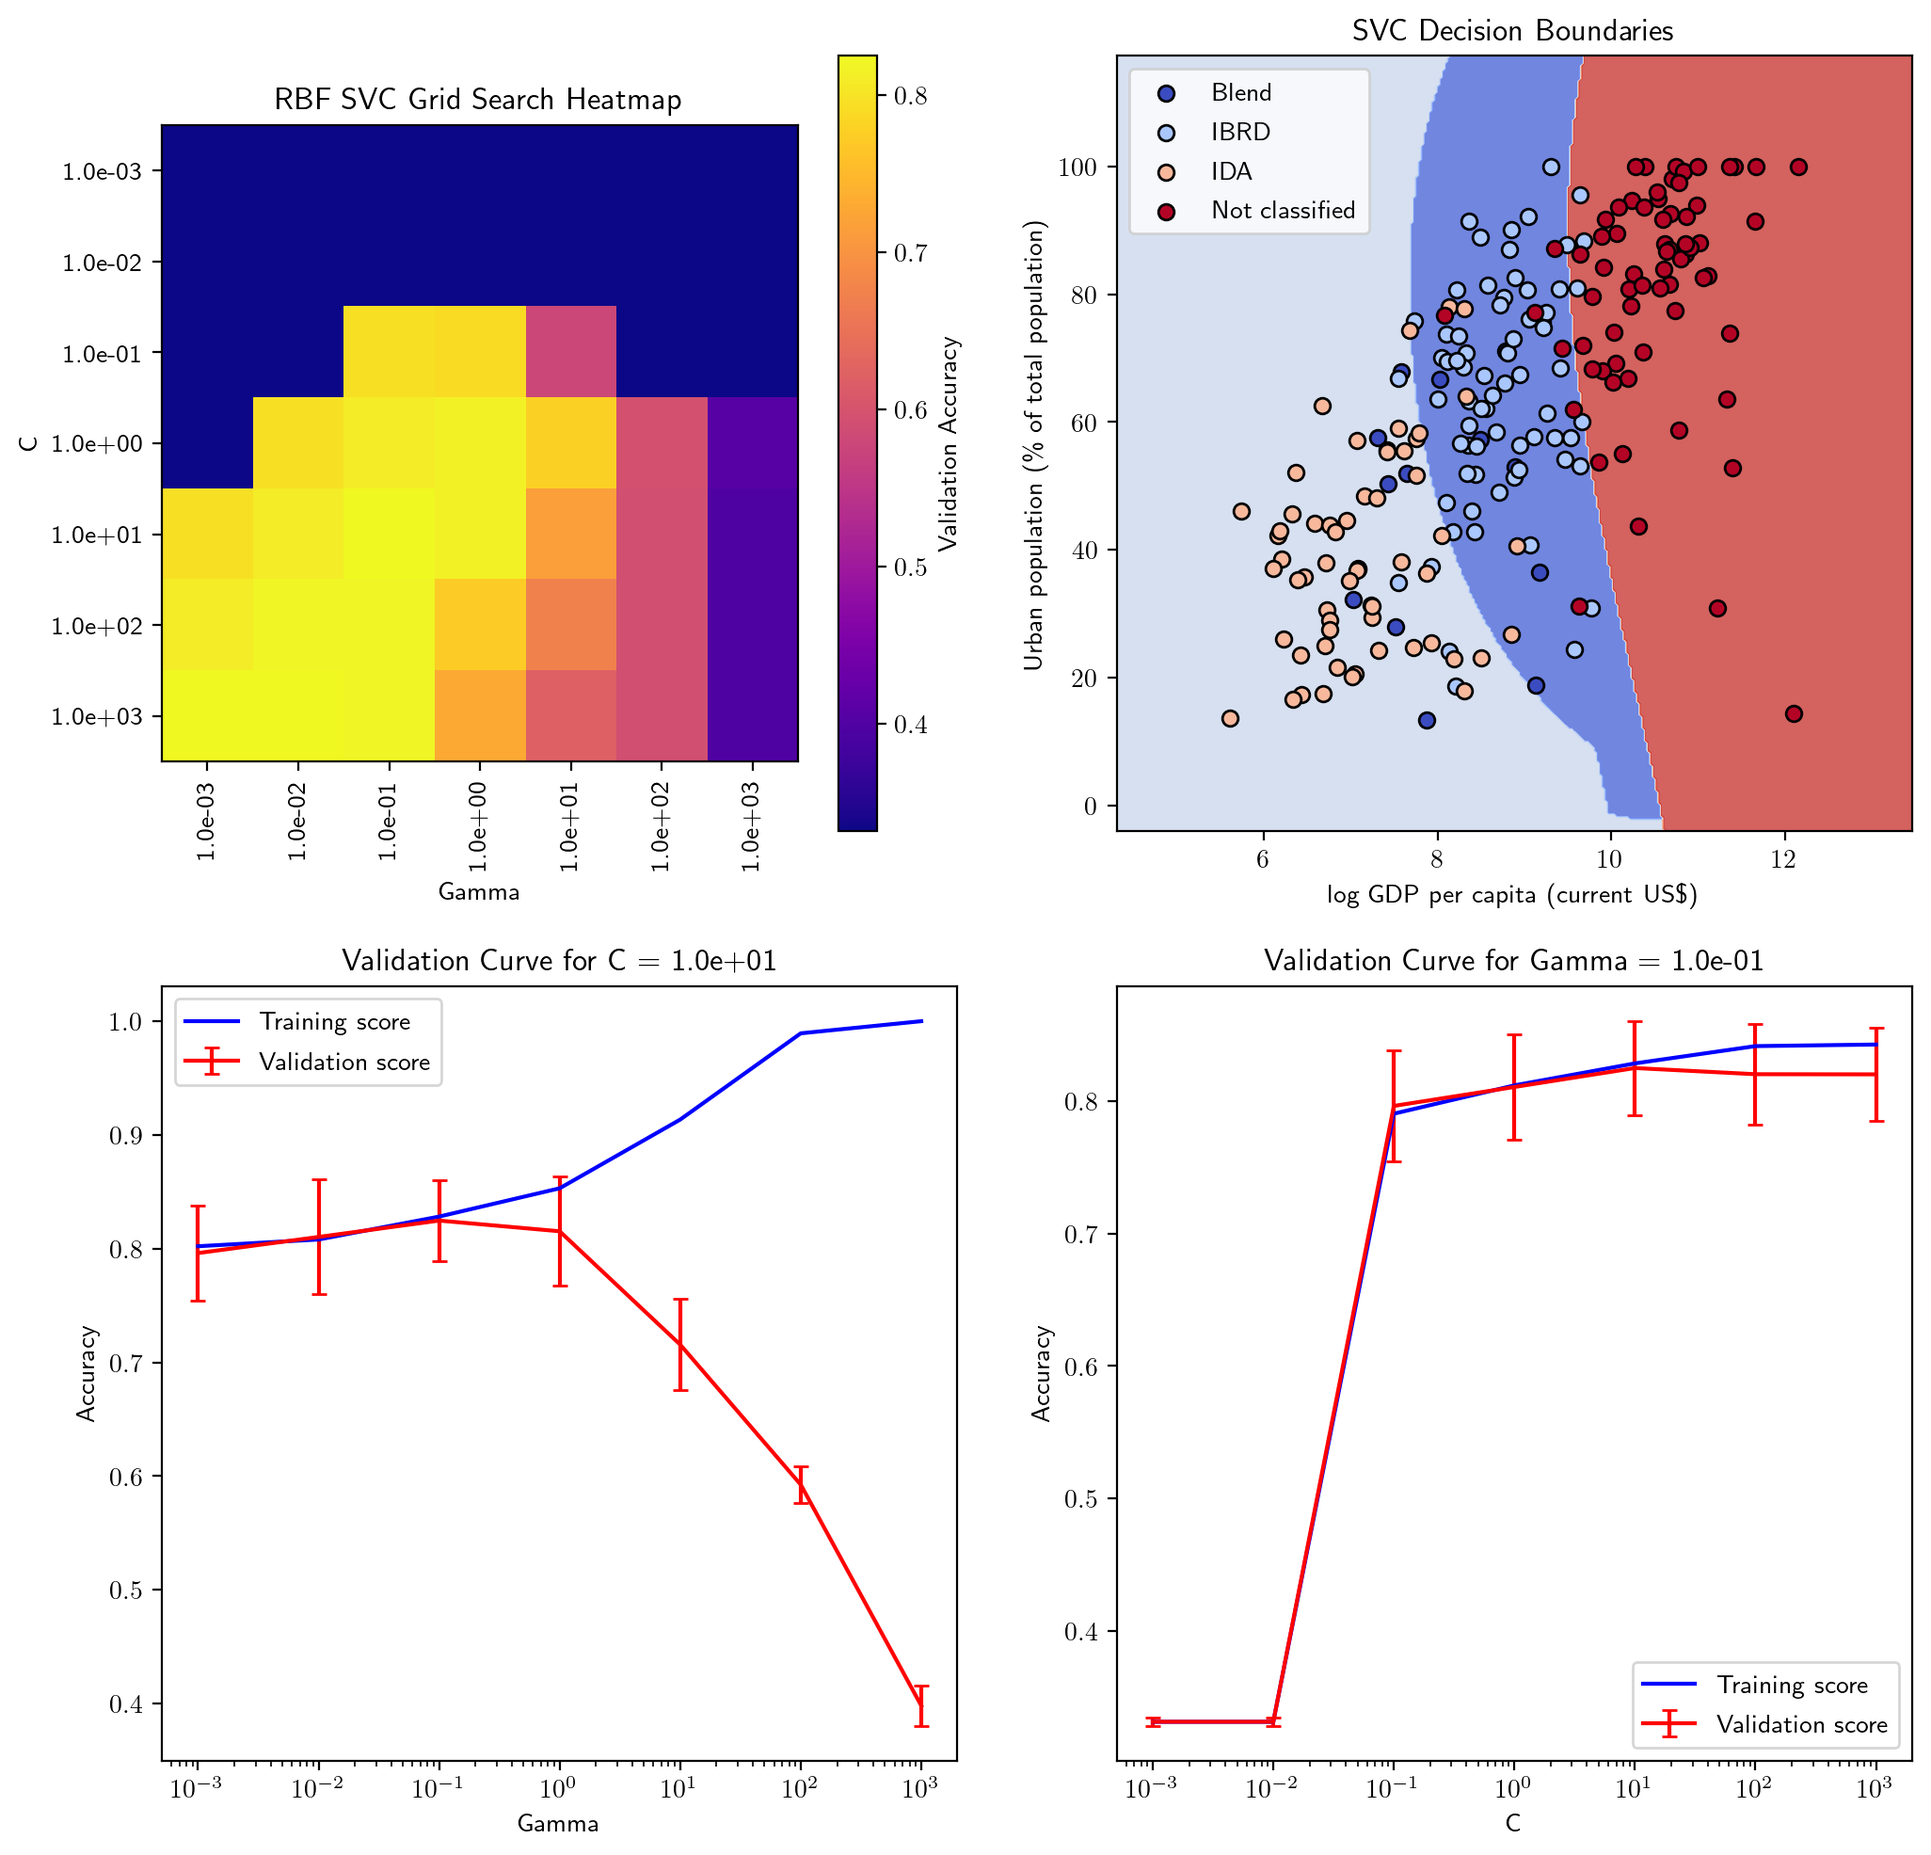
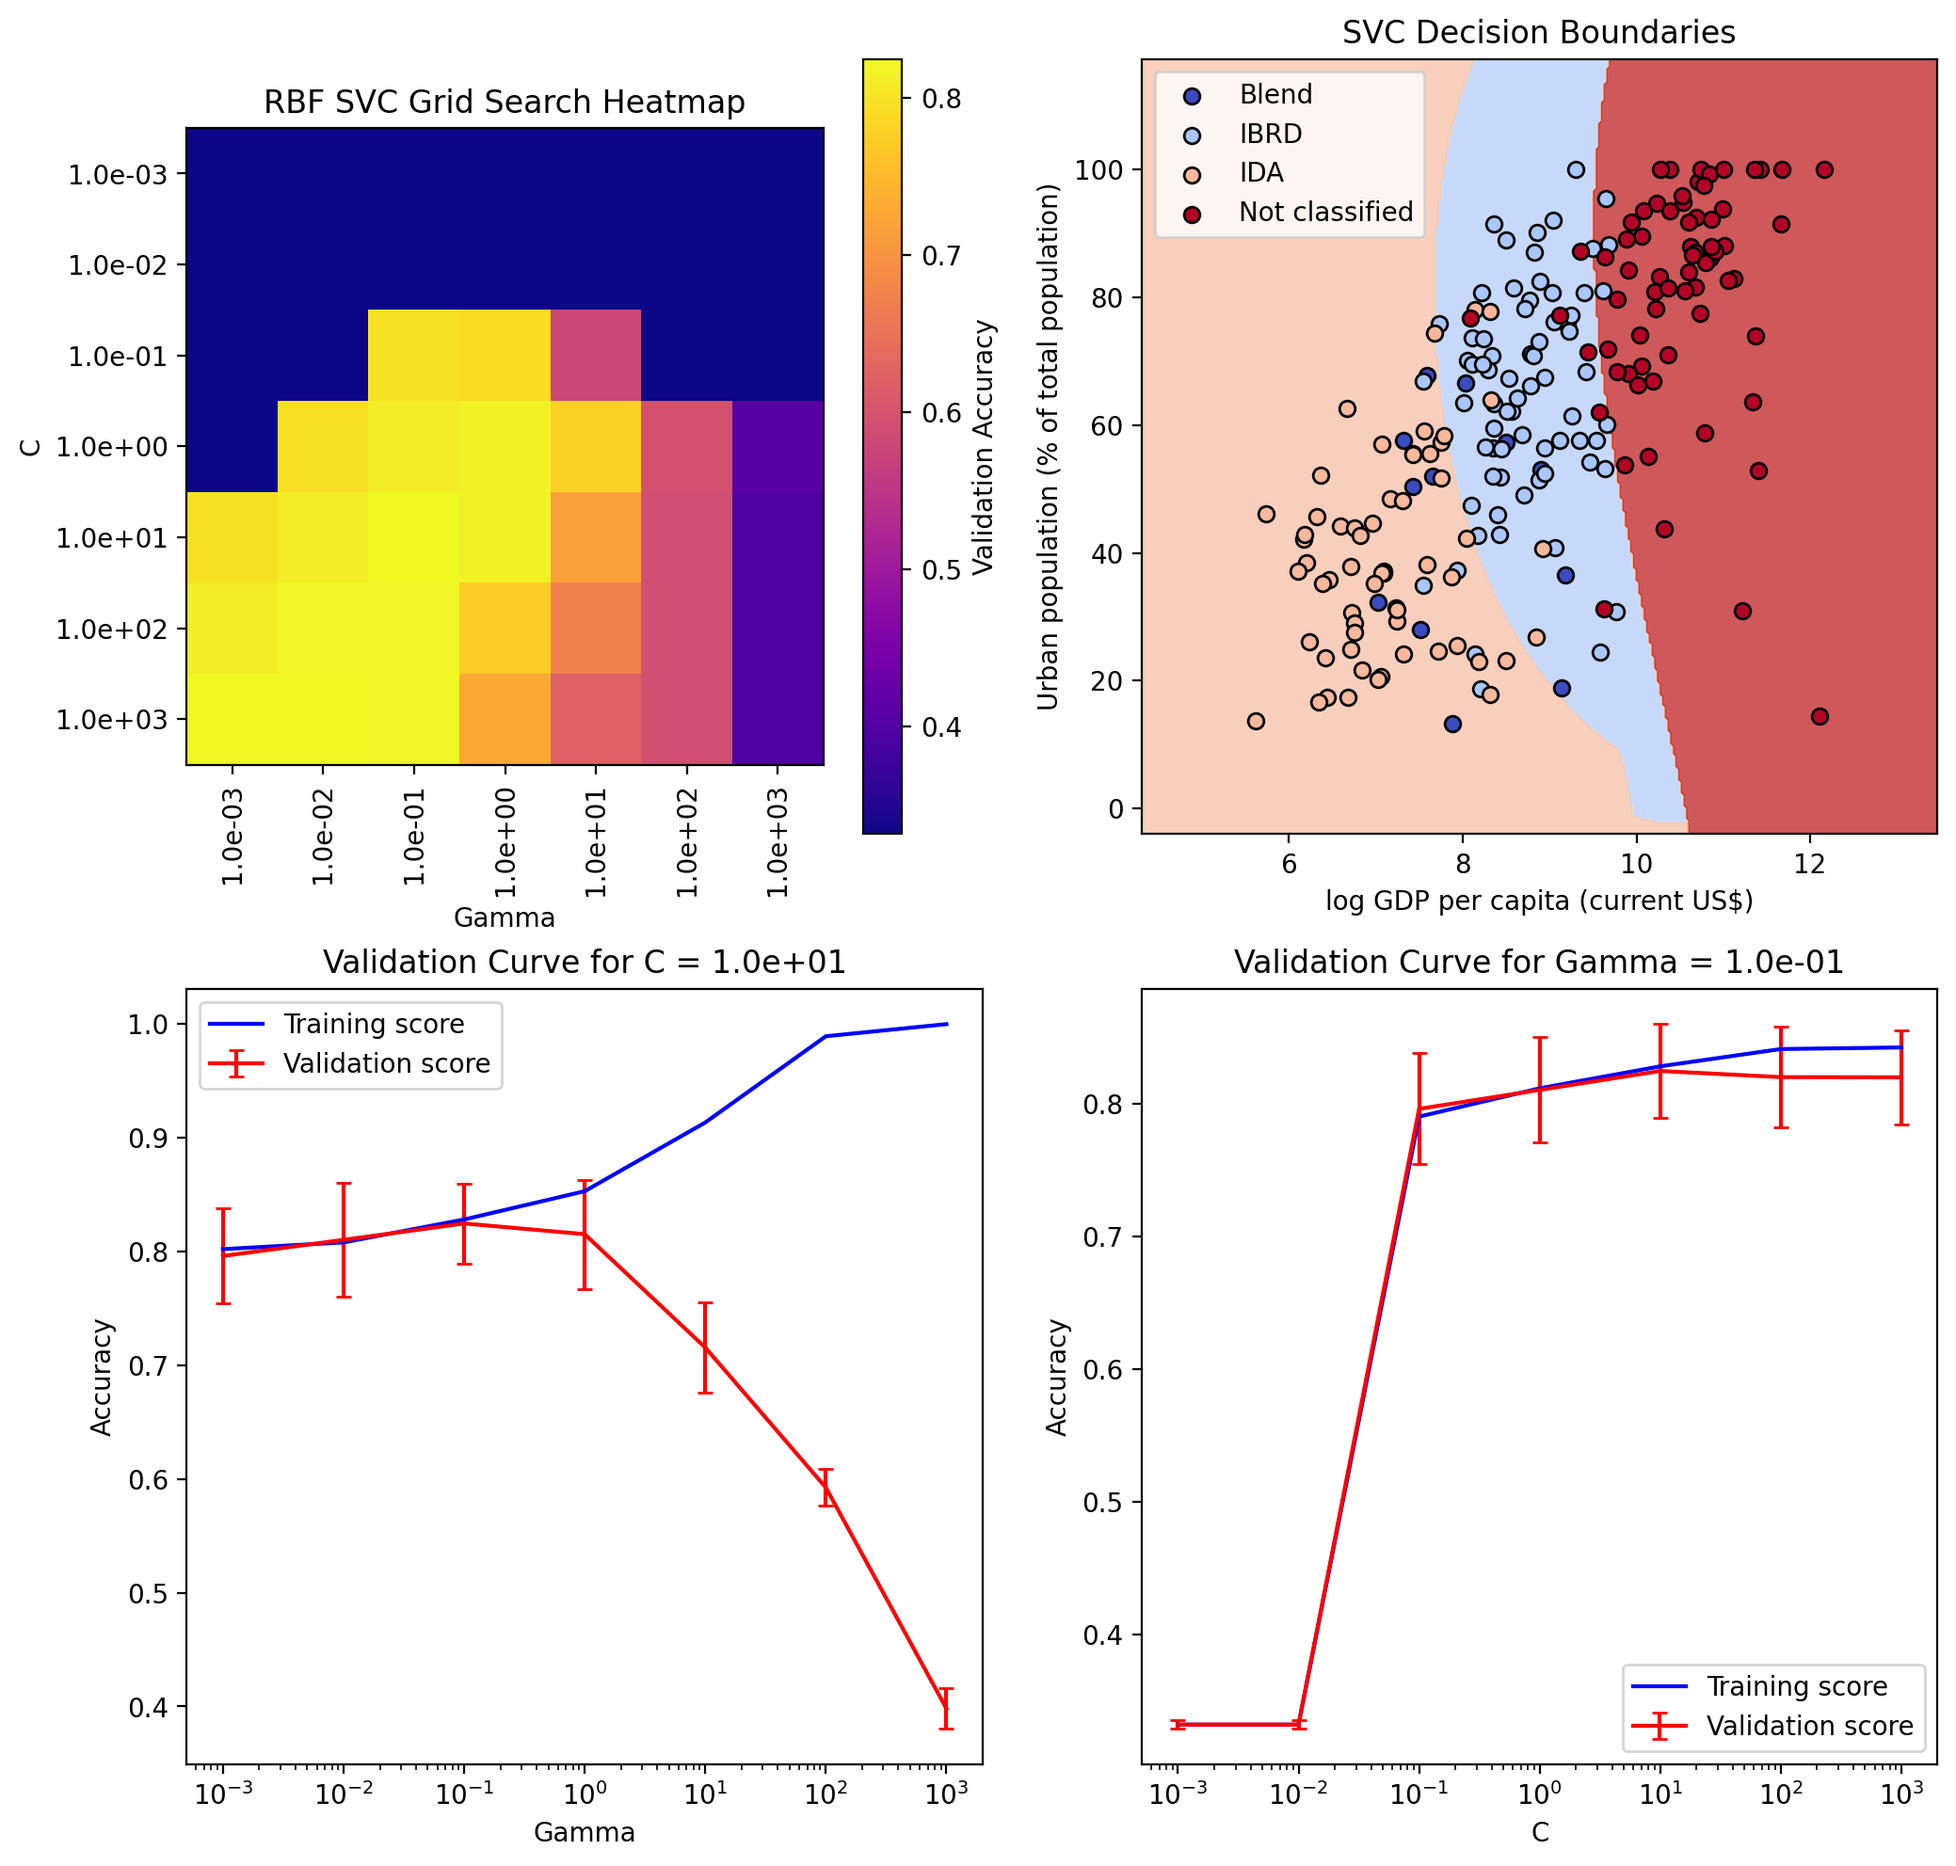
Fixed contour colouring

diff --git a/data_collection.py b/data_collection.py
@@ -17,7 +17,7 @@ Each indicator has a code such as 'NY.GDP.MKTP.CD' which is shown by the urls
 in the indicator list and are used by the API. Thus these codes are needed when
 specifying which data to collect. The data is also stored using the codes as
 column headers for ease of manipulation and only converted into the descriptive
-labels when loaded by analysis.py.
+labels when loaded.
 """
 
 import requests
@@ -41,13 +41,13 @@ CACHE_BACKEND = 'sqlite'
 # The API indicator codes must always be used as keys; values can be any
 # descriptive names.
 INDICATORS = {'NY.GDP.MKTP.CD':'GDP (current US\$)',
-              'NY.GDP.MKTP.KD.ZG':'GDP growth (annual \%)',
+              'NY.GDP.MKTP.KD.ZG':'GDP growth (annual %)',
               'NY.GDP.PCAP.CD':'GDP per capita (current US\$)',
-              'NY.GDP.PCAP.KD.ZG':'GDP per capita growth (annual \%)',
+              'NY.GDP.PCAP.KD.ZG':'GDP per capita growth (annual %)',
               'SP.POP.TOTL':'Population, total',
-              'SP.POP.GROW':'Population growth (annual \%)',
-              'SP.URB.TOTL.IN.ZS':'Urban population (\% of total population)',
-              'FP.CPI.TOTL.ZG':'Inflation, consumer prices (annual \%)',
+              'SP.POP.GROW':'Population growth (annual %)',
+              'SP.URB.TOTL.IN.ZS':'Urban population (% of total population)',
+              'FP.CPI.TOTL.ZG':'Inflation, consumer prices (annual %)',
               'EG.USE.ELEC.KH.PC':'Electric power consumption (kWh per capita)'
               }
 

diff --git a/analysis.py b/analysis.py
@@ -78,7 +78,7 @@ def full_ds():
     df = df.rename(columns = lambda x:get_ind_name(x))
     return df
 
-def numeric_lending_clf_ds():
+def numeric_lending_ds():
     """Returns a design matrix of numeric training data and a set of class 
     labels for predicting Lending Type of countries. Some preprocessing is 
     applied such as dropping irrelevant or non-numeric columns, and applying 
@@ -611,11 +611,11 @@ def plot_clf_contours(ax, model, X, y, cmap=plt.cm.coolwarm,
     # Translate into numeric codes
     Z = np.vectorize(codes.get)(Z)
     Z = Z.reshape(xx.shape)
-    # Plot contours
-    ax.contourf(xx, yy, Z, cmap=cmap, alpha=0.8)
-    # Normalisation needed for applying colour map to training data to ensure
-    # point colours match contour colours for each class.
+    # Normalisation needed for to ensure point colours match contour colours 
+    # for each class.
     norm = plt.Normalize(vmin=min(codes.values()), vmax=max(codes.values()))
+    # Plot contours
+    ax.contourf(xx, yy, Z, cmap=cmap, alpha=0.8, norm=norm)
     # Plot training data
     for cat in y.cat.categories:
         ax.scatter(X[y == cat,0],X[y == cat,1],label=cat,
